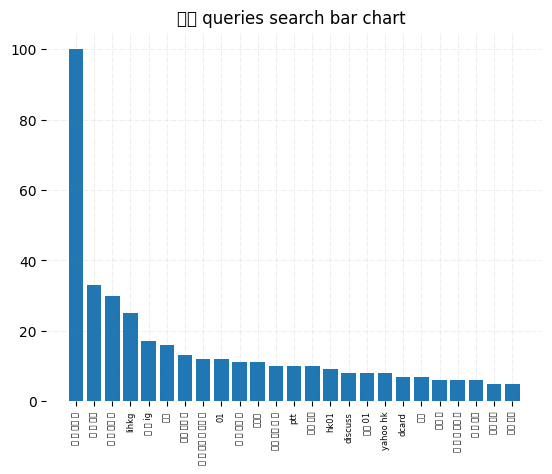
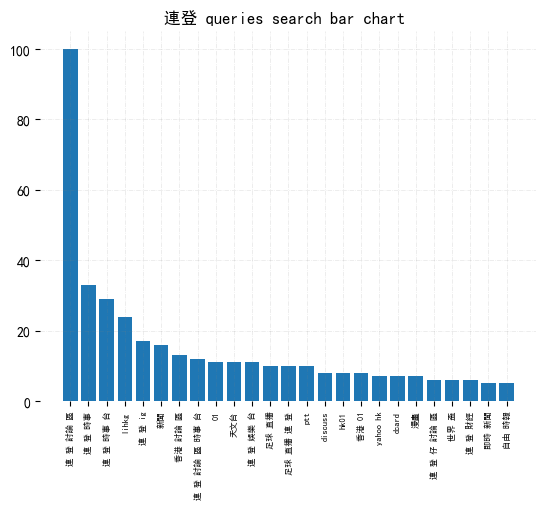
chinese word visible for chart

diff --git a/serp_api.py b/serp_api.py
@@ -4,6 +4,8 @@ import matplotlib
 matplotlib.use('Agg')
 from matplotlib import pyplot as plt
 from Get_Continent import *
+plt.rcParams["font.sans-serif"]=["SimHei"] #set font
+plt.rcParams["axes.unicode_minus"]=False
 # keyword = "youtube"
 # type = ["GEO_MAP_0","RELATED_QUERIES","RELATED_TOPICS"]
 # key = ["interest_by_region","related_queries","related_topics"] 
